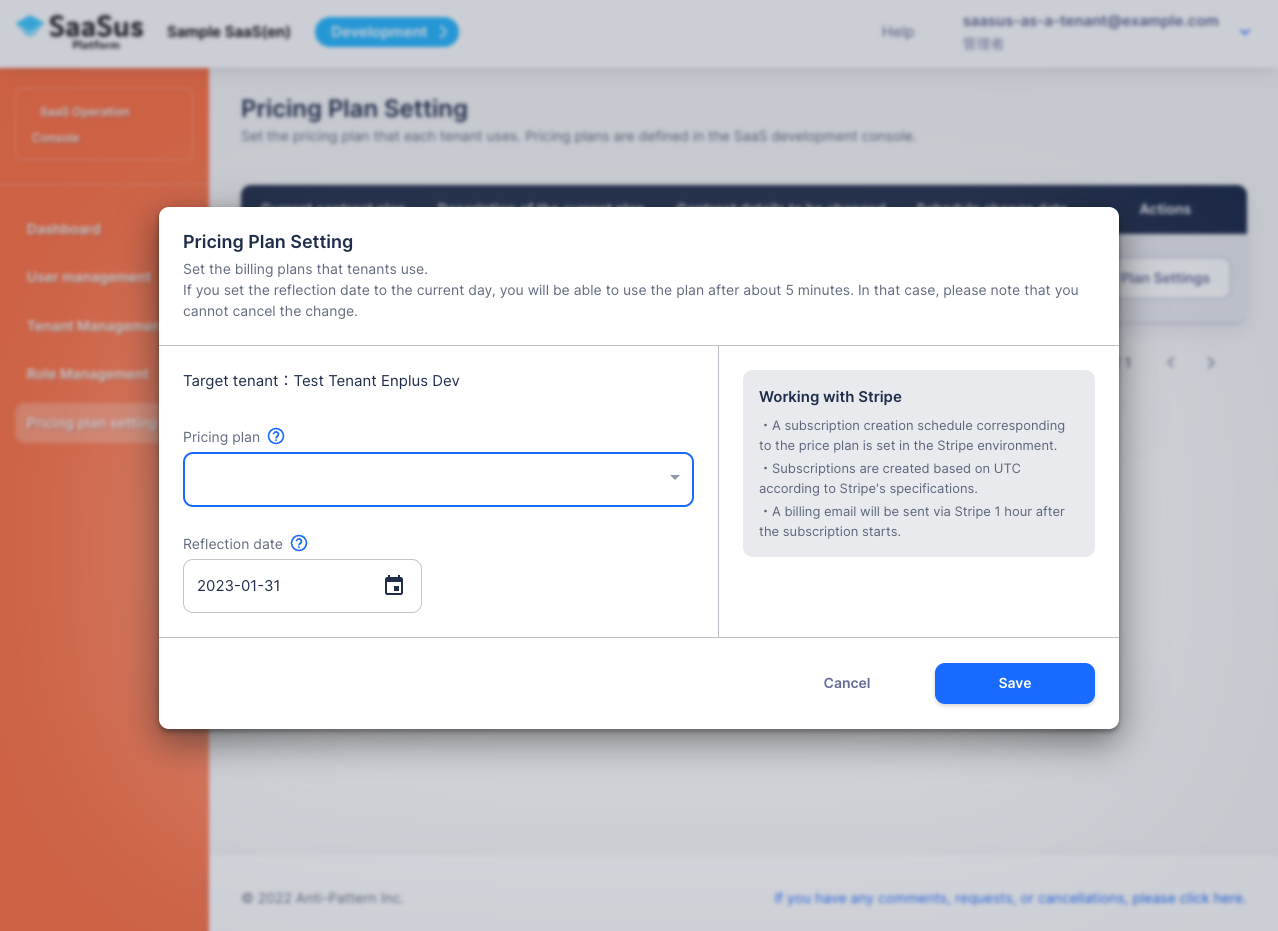
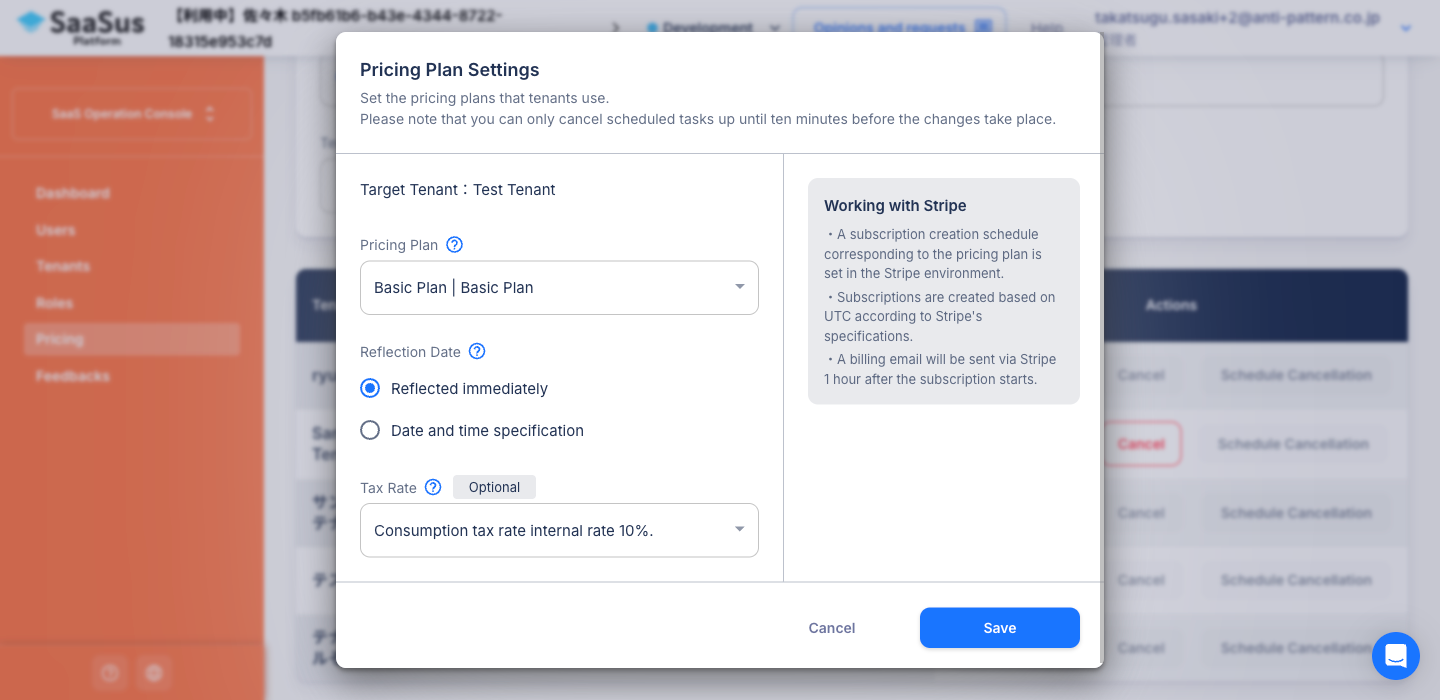
第V部 料金プラン設定 画像差し替えと説明修正

diff --git a/i18n/ja/docusaurus-plugin-content-docs/current/part-5/price-plan/price-plan-setting-001.md b/i18n/ja/docusaurus-plugin-content-docs/current/part-5/price-plan/price-plan-setting-001.md
@@ -6,34 +6,31 @@ hidden: false
 createdAt: "Wed Dec 28 2022 00:56:16 GMT+0000 (Coordinated Universal Time)"
 updatedAt: "Thu Dec 07 2023 01:25:35 GMT+0000 (Coordinated Universal Time)"
 ---
-## 当日に料金プランを設定したい場合
+## 料金プランをすぐ反映させたい場合
 
 1. SaaS 運用コンソールの料金プラン設定に移動します。
 2. 料金プランを設定したいテナントの「プラン設定」をクリックします。
 3. 料金プランをセレクトボックスから選択します。
-4. 反映日には、当日の日付を設定します。
+4. 反映日で「すぐ反映」を選択します。
 5. 税率には税率設定で指定した税率を設定します。
 6. 「保存」をクリックします。
 7. 確認メッセージが表示されるので、内容を確認して「保存」をクリックします。
 
-**※反映日を当日にした場合、操作日時の約5分後から料金プランの設定が反映されます。**  
+**※反映日を「すぐ反映」にした場合、操作日時の約5分後から料金プランの設定が反映されます。**  
 _例,  2022年12月28日午前9時0分に料金プランを設定→2022/12/28 09:05:00に反映_
 
-**税率設定についてはこちらのドキュメントを参照してください。（[税率設定](/docs/saas-development-console/tax-rates)）**
+**税率設定についてはこちらのドキュメントを参照してください。（[税率設定](/docs/part-4/pricing-and-billing/tax-rate-settings)）**
 
 ![](/ja/img/part-5/price-plan/price-plan-setting-001/plan.png)
 
 ***
 
-## 翌日以降の日付で、料金プランが設定されるようにしたい場合
+## 料金プランを日時指定で反映させたい場合
 
 1. SaaS 運用コンソールの料金プラン設定に移動します。
 2. 料金プランを設定したいテナントの「プラン設定」をクリックします。
 3. 料金プランをセレクトボックスから選択します。
-4. 反映日には、翌日以降の日付を設定します。
+4. 反映日で「日時指定」を選択し、希望の日時を指定します。
 5. 税率には税率設定で指定した税率を設定します。
 6. 「保存」をクリックします。
 7. 確認メッセージが表示されるので、内容を確認して「保存」をクリックします。
-
-**※反映日を翌日以降にした場合、指定した日付の午前0時から料金プランの設定が反映されます。**  
-_例,  2023年2月1日の日付を指定→2023/02/01 00:00:00の変更予定を作成_

diff --git a/i18n/ja/docusaurus-plugin-content-docs/version-1.11/part-5/price-plan/price-plan-setting-001.md b/i18n/ja/docusaurus-plugin-content-docs/version-1.11/part-5/price-plan/price-plan-setting-001.md
@@ -6,34 +6,31 @@ hidden: false
 createdAt: "Wed Dec 28 2022 00:56:16 GMT+0000 (Coordinated Universal Time)"
 updatedAt: "Thu Dec 07 2023 01:25:35 GMT+0000 (Coordinated Universal Time)"
 ---
-## 当日に料金プランを設定したい場合
+## 料金プランをすぐ反映させたい場合
 
 1. SaaS 運用コンソールの料金プラン設定に移動します。
 2. 料金プランを設定したいテナントの「プラン設定」をクリックします。
 3. 料金プランをセレクトボックスから選択します。
-4. 反映日には、当日の日付を設定します。
+4. 反映日で「すぐ反映」を選択します。
 5. 税率には税率設定で指定した税率を設定します。
 6. 「保存」をクリックします。
 7. 確認メッセージが表示されるので、内容を確認して「保存」をクリックします。
 
-**※反映日を当日にした場合、操作日時の約5分後から料金プランの設定が反映されます。**  
+**※反映日を「すぐ反映」にした場合、操作日時の約5分後から料金プランの設定が反映されます。**  
 _例,  2022年12月28日午前9時0分に料金プランを設定→2022/12/28 09:05:00に反映_
 
-**税率設定についてはこちらのドキュメントを参照してください。（[税率設定](/docs/saas-development-console/tax-rates)）**
+**税率設定についてはこちらのドキュメントを参照してください。（[税率設定](/docs/part-4/pricing-and-billing/tax-rate-settings)）**
 
 ![](/ja/img/part-5/price-plan/price-plan-setting-001/plan.png)
 
 ***
 
-## 翌日以降の日付で、料金プランが設定されるようにしたい場合
+## 料金プランを日時指定で反映させたい場合
 
 1. SaaS 運用コンソールの料金プラン設定に移動します。
 2. 料金プランを設定したいテナントの「プラン設定」をクリックします。
 3. 料金プランをセレクトボックスから選択します。
-4. 反映日には、翌日以降の日付を設定します。
+4. 反映日で「日時指定」を選択し、希望の日時を指定します。
 5. 税率には税率設定で指定した税率を設定します。
 6. 「保存」をクリックします。
 7. 確認メッセージが表示されるので、内容を確認して「保存」をクリックします。
-
-**※反映日を翌日以降にした場合、指定した日付の午前0時から料金プランの設定が反映されます。**  
-_例,  2023年2月1日の日付を指定→2023/02/01 00:00:00の変更予定を作成_

diff --git a/i18n/ja/docusaurus-plugin-content-docs/current/part-5/price-plan/price-plan-setting-002.md b/i18n/ja/docusaurus-plugin-content-docs/current/part-5/price-plan/price-plan-setting-002.md
@@ -6,16 +6,16 @@ hidden: false
 createdAt: "Wed Dec 28 2022 01:37:39 GMT+0000 (Coordinated Universal Time)"
 updatedAt: "Thu Dec 07 2023 01:25:35 GMT+0000 (Coordinated Universal Time)"
 ---
-## 当日に料金プランを変更したい場合
+## 料金プランの変更をすぐ反映させたい場合
 
 1. SaaS 運用コンソールの料金プラン設定に移動します。
 2. 料金プランを変更したいテナントの「プラン設定」をクリックします。
 3. 料金プランをセレクトボックスから選択します。
-4. 反映日には、当日の日付を設定します。
+4. 反映日で「すぐ反映」を選択します。
 5. 「変更」をクリックします。
 6. 確認メッセージが表示されるので、内容を確認して「変更」をクリックします。
 
-**※反映日を当日にした場合、操作日時の約5分後から料金プランの設定が切り替わります。**  
+**※反映日を「すぐ反映」にした場合、操作日時の約5分後から料金プランの設定が切り替わります。**  
 _例,  2022年12月28日午前9時0分に料金プランの変更設定→2022/12/28 09:05:00に切り替わる_
 
 ![](/ja/img/part-5/price-plan/price-plan-setting-002/plan-setting.png)
@@ -24,14 +24,11 @@ _例,  2022年12月28日午前9時0分に料金プランの変更設定→2022/1
 
 ***
 
-## 翌日以降の日付で、料金プランが変更されるようにしたい場合
+## 料金プランの変更を日時指定で反映させたい場合
 
 1. SaaS 運用コンソールの料金プラン設定に移動します。
 2. 料金プランを変更したいテナントの「プラン設定」をクリックします。
 3. 料金プランをセレクトボックスから選択します。
-4. 反映日には、翌日以降の日付を設定します。
+4. 反映日で「日時指定」を選択し、希望の日時を指定します。
 5. 「変更」をクリックします。
 6. 確認メッセージが表示されるので、内容を確認して「変更」をクリックします。
-
-**※反映日を翌日以降にした場合、指定した日付の午前0時から料金プランの設定が切り替わります。**  
-_例,  2023年2月1日の日付を指定→2023/02/01 00:00:00の変更予定を作成_

diff --git a/i18n/ja/docusaurus-plugin-content-docs/version-1.11/part-5/price-plan/price-plan-setting-002.md b/i18n/ja/docusaurus-plugin-content-docs/version-1.11/part-5/price-plan/price-plan-setting-002.md
@@ -6,16 +6,16 @@ hidden: false
 createdAt: "Wed Dec 28 2022 01:37:39 GMT+0000 (Coordinated Universal Time)"
 updatedAt: "Thu Dec 07 2023 01:25:35 GMT+0000 (Coordinated Universal Time)"
 ---
-## 当日に料金プランを変更したい場合
+## 料金プランの変更をすぐ反映させたい場合
 
 1. SaaS 運用コンソールの料金プラン設定に移動します。
 2. 料金プランを変更したいテナントの「プラン設定」をクリックします。
 3. 料金プランをセレクトボックスから選択します。
-4. 反映日には、当日の日付を設定します。
+4. 反映日で「すぐ反映」を選択します。
 5. 「変更」をクリックします。
 6. 確認メッセージが表示されるので、内容を確認して「変更」をクリックします。
 
-**※反映日を当日にした場合、操作日時の約5分後から料金プランの設定が切り替わります。**  
+**※反映日を「すぐ反映」にした場合、操作日時の約5分後から料金プランの設定が切り替わります。**  
 _例,  2022年12月28日午前9時0分に料金プランの変更設定→2022/12/28 09:05:00に切り替わる_
 
 ![](/ja/img/part-5/price-plan/price-plan-setting-002/plan-setting.png)
@@ -24,14 +24,11 @@ _例,  2022年12月28日午前9時0分に料金プランの変更設定→2022/1
 
 ***
 
-## 翌日以降の日付で、料金プランが変更されるようにしたい場合
+## 料金プランの変更を日時指定で反映させたい場合
 
 1. SaaS 運用コンソールの料金プラン設定に移動します。
 2. 料金プランを変更したいテナントの「プラン設定」をクリックします。
 3. 料金プランをセレクトボックスから選択します。
-4. 反映日には、翌日以降の日付を設定します。
+4. 反映日で「日時指定」を選択し、希望の日時を指定します。
 5. 「変更」をクリックします。
 6. 確認メッセージが表示されるので、内容を確認して「変更」をクリックします。
-
-**※反映日を翌日以降にした場合、指定した日付の午前0時から料金プランの設定が切り替わります。**  
-_例,  2023年2月1日の日付を指定→2023/02/01 00:00:00の変更予定を作成_

diff --git a/i18n/ja/docusaurus-plugin-content-docs/current/part-5/price-plan/price-plan-setting-003.md b/i18n/ja/docusaurus-plugin-content-docs/current/part-5/price-plan/price-plan-setting-003.md
@@ -11,15 +11,14 @@ updatedAt: "Thu Dec 07 2023 01:25:35 GMT+0000 (Coordinated Universal Time)"
 料金プランを解除すると、それに対応するStripeのサブスクリプションがキャンセルされますが  
 その際に返金は発生いたしませんので、ご承知おきください。
 
-## 当日に料金プランを解除したい場合
+## 料金プランの解除を日時指定で反映させたい場合
 
 1. SaaS 運用コンソールの料金プラン設定に移動します。
 2. 料金プランを解除したいテナントの「解除」をクリックします。
-3. 反映日には、当日の日付を設定します。
-4. 「解除」をクリックします。
+3. 反映日で「日時指定」を選択し、希望の日時を指定します。
 5. 確認メッセージが表示されるので、内容を確認して「解除」をクリックします。
 
-**※反映日を当日にした場合、操作日時の約5分後から料金プランが解除されます。**  
+**※反映日を「すぐ反映」にした場合、操作日時の約5分後から料金プランが解除されます。**  
 _例,  2022年12月28日午前9時0分に料金プランの解除設定→2022/12/28 09:05:00に解除_
 
 ![](/ja/img/part-5/price-plan/price-plan-setting-003/plan-setting.png)
@@ -28,13 +27,10 @@ _例,  2022年12月28日午前9時0分に料金プランの解除設定→2022/1
 
 ***
 
-## 翌日以降の日付で、料金プランが解除されるようにしたい場合
+## 料金プランの解除を日時指定で反映させたい場合
 
 1. SaaS 運用コンソールの料金プラン設定に移動します。
 2. 料金プランを解除したいテナントの「解除」をクリックします。
-3. 反映日には、翌日以降の日付を設定します。
+3. 反映日で「日時指定」を選択し、希望の日時を指定します。
 4. 「解除」をクリックします。
 5. 確認メッセージが表示されるので、内容を確認して「解除」をクリックします。
-
-**※反映日を翌日以降にした場合、指定した日付の午前0時に料金プランの設定が解除されます。**  
-_例,  2023年2月1日の日付を指定→2023/02/01 00:00:00の解除予定を作成_

diff --git a/i18n/ja/docusaurus-plugin-content-docs/version-1.11/part-5/price-plan/price-plan-setting-003.md b/i18n/ja/docusaurus-plugin-content-docs/version-1.11/part-5/price-plan/price-plan-setting-003.md
@@ -11,15 +11,14 @@ updatedAt: "Thu Dec 07 2023 01:25:35 GMT+0000 (Coordinated Universal Time)"
 料金プランを解除すると、それに対応するStripeのサブスクリプションがキャンセルされますが  
 その際に返金は発生いたしませんので、ご承知おきください。
 
-## 当日に料金プランを解除したい場合
+## 料金プランの解除を日時指定で反映させたい場合
 
 1. SaaS 運用コンソールの料金プラン設定に移動します。
 2. 料金プランを解除したいテナントの「解除」をクリックします。
-3. 反映日には、当日の日付を設定します。
-4. 「解除」をクリックします。
+3. 反映日で「日時指定」を選択し、希望の日時を指定します。
 5. 確認メッセージが表示されるので、内容を確認して「解除」をクリックします。
 
-**※反映日を当日にした場合、操作日時の約5分後から料金プランが解除されます。**  
+**※反映日を「すぐ反映」にした場合、操作日時の約5分後から料金プランが解除されます。**  
 _例,  2022年12月28日午前9時0分に料金プランの解除設定→2022/12/28 09:05:00に解除_
 
 ![](/ja/img/part-5/price-plan/price-plan-setting-003/plan-setting.png)
@@ -28,13 +27,10 @@ _例,  2022年12月28日午前9時0分に料金プランの解除設定→2022/1
 
 ***
 
-## 翌日以降の日付で、料金プランが解除されるようにしたい場合
+## 料金プランの解除を日時指定で反映させたい場合
 
 1. SaaS 運用コンソールの料金プラン設定に移動します。
 2. 料金プランを解除したいテナントの「解除」をクリックします。
-3. 反映日には、翌日以降の日付を設定します。
+3. 反映日で「日時指定」を選択し、希望の日時を指定します。
 4. 「解除」をクリックします。
 5. 確認メッセージが表示されるので、内容を確認して「解除」をクリックします。
-
-**※反映日を翌日以降にした場合、指定した日付の午前0時に料金プランの設定が解除されます。**  
-_例,  2023年2月1日の日付を指定→2023/02/01 00:00:00の解除予定を作成_

diff --git a/docs/part-5/price-plan/price-plan-setting-001.md b/docs/part-5/price-plan/price-plan-setting-001.md
@@ -11,14 +11,14 @@ updatedAt: "Thu Dec 07 2023 01:25:35 GMT+0000 (Coordinated Universal Time)"
 1. Go to Pricing Plan Settings in the SaaS Operations Console.
 2. Click "Plan Settings" for the tenant for which you want to set a price plan.
 3. Select a pricing plan from the select box.
-4. Set the current date for the reflection date.
+4. For Reflection Date, select "Reflected immediately".
 5. Click Save.
 6. A confirmation message will be displayed. Check the contents and click "Save".
 
-**\*If you set the reflection date to the current day, the billing plan settings will be reflected about 5 minutes after the operation date and time. **  
+**\*When "Reflected immediately" is selected, the pricing plan will take effect about 5 minutes after the operation.**  
 _For example, a billing plan is set at 9:00 am on December 28, 2022 → Reflected at 09:05:00 on December 28, 2022_
 
-**For information on tax rate settings, please refer to this document: ([Tax Rate Settings](/docs/saas-development-console/tax-rates))**
+**For information on tax rate settings, please refer to this document: ([Tax Rate Settings](/docs/part-4/pricing-and-billing/tax-rate-settings))**
 
 ![plan](/img/part-5/price-plan/price-plan-setting-001/plan.png)
 *Dialog that appears when you perform the operation in step 2 (operate here from step 3 onwards)*
@@ -31,9 +31,6 @@ _For example, a billing plan is set at 9:00 am on December 28, 2022 → Reflecte
 1. Go to Pricing Plan Settings in the SaaS Operations Console.
 2. Click "Plan Settings" for the tenant for which you want to set a price plan.
 3. Select a rate plan from the select box.
-4. For the effective date, set the date after the next day.
+4. For Reflection Date, select "Date and time specification", then specify the desired date and time.
 5. Click Save.
 6. A confirmation message will be displayed. Check the contents and click "Save".
-
-**\*If you set the reflection date to the next day or later, the price plan settings will be reflected from 0:00 on the specified date. **  
-_Example, Specify the date of February 1, 2023 → Create a change schedule for 2023/02/01 00:00:00_

diff --git a/versioned_docs/version-1.11/part-5/price-plan/price-plan-setting-001.md b/versioned_docs/version-1.11/part-5/price-plan/price-plan-setting-001.md
@@ -11,14 +11,14 @@ updatedAt: "Thu Dec 07 2023 01:25:35 GMT+0000 (Coordinated Universal Time)"
 1. Go to Pricing Plan Settings in the SaaS Operations Console.
 2. Click "Plan Settings" for the tenant for which you want to set a price plan.
 3. Select a pricing plan from the select box.
-4. Set the current date for the reflection date.
+4. For Reflection Date, select "Reflected immediately".
 5. Click Save.
 6. A confirmation message will be displayed. Check the contents and click "Save".
 
-**\*If you set the reflection date to the current day, the billing plan settings will be reflected about 5 minutes after the operation date and time. **  
+**\*When "Reflected immediately" is selected, the pricing plan will take effect about 5 minutes after the operation.**  
 _For example, a billing plan is set at 9:00 am on December 28, 2022 → Reflected at 09:05:00 on December 28, 2022_
 
-**For information on tax rate settings, please refer to this document: ([Tax Rate Settings](/docs/saas-development-console/tax-rates))**
+**For information on tax rate settings, please refer to this document: ([Tax Rate Settings](/docs/part-4/pricing-and-billing/tax-rate-settings))**
 
 ![plan](/img/part-5/price-plan/price-plan-setting-001/plan.png)
 *Dialog that appears when you perform the operation in step 2 (operate here from step 3 onwards)*
@@ -31,9 +31,6 @@ _For example, a billing plan is set at 9:00 am on December 28, 2022 → Reflecte
 1. Go to Pricing Plan Settings in the SaaS Operations Console.
 2. Click "Plan Settings" for the tenant for which you want to set a price plan.
 3. Select a rate plan from the select box.
-4. For the effective date, set the date after the next day.
+4. For Reflection Date, select "Date and time specification", then specify the desired date and time.
 5. Click Save.
 6. A confirmation message will be displayed. Check the contents and click "Save".
-
-**\*If you set the reflection date to the next day or later, the price plan settings will be reflected from 0:00 on the specified date. **  
-_Example, Specify the date of February 1, 2023 → Create a change schedule for 2023/02/01 00:00:00_

diff --git a/docs/part-5/price-plan/price-plan-setting-002.md b/docs/part-5/price-plan/price-plan-setting-002.md
@@ -11,11 +11,11 @@ updatedAt: "Thu Dec 07 2023 01:25:35 GMT+0000 (Coordinated Universal Time)"
 1. Go to Pricing Plan Settings in the SaaS Operations Console.
 2. Click "Plan Settings" for the tenant whose price plan you want to change.
 3. Select a pricing plan from the select box.
-4. Set the current date for the reflection date.
+4. For Reflection Date, select "Reflected immediately".
 5. Click Change.
 6. A confirmation message will be displayed. Check the contents and click "Change".
 
-**\*If you set the reflection date to the current day, the pricing plan settings will switch approximately 5 minutes after the operation date and time. **  
+**\*When "Reflected immediately" is selected, the pricing plan will take effect about 5 minutes after the operation.**  
 _Example, Change setting of pricing plan at 9:00 am on December 28, 2022 → Switch to 09:05:00 on December 28, 2022_
 
 ![plan-setting](/img/part-5/price-plan/price-plan-setting-002/plan-setting.png)
@@ -29,9 +29,6 @@ _Example, Change setting of pricing plan at 9:00 am on December 28, 2022 → Swi
 1. Go to Pricing Plan Settings in the SaaS Operations Console.
 2. Click "Plan Settings" for the tenant whose price plan you want to change.
 3. Select a pricing plan from the select box.
-4. For the effective date, set the date after the next day.
+4. For Reflection Date, select "Date and time specification", then specify the desired date and time.
 5. Click Change.
 6. A confirmation message will be displayed. Check the contents and click "Change".
-
-**\*If you set the reflection date to the next day or later, the pricing plan settings will switch from 0:00 on the specified date. **  
-_Example, Specify the date of February 1, 2023 → Create a change schedule for 2023/02/01 00:00:00_

diff --git a/versioned_docs/version-1.11/part-5/price-plan/price-plan-setting-002.md b/versioned_docs/version-1.11/part-5/price-plan/price-plan-setting-002.md
@@ -11,11 +11,11 @@ updatedAt: "Thu Dec 07 2023 01:25:35 GMT+0000 (Coordinated Universal Time)"
 1. Go to Pricing Plan Settings in the SaaS Operations Console.
 2. Click "Plan Settings" for the tenant whose price plan you want to change.
 3. Select a pricing plan from the select box.
-4. Set the current date for the reflection date.
+4. For Reflection Date, select "Reflected immediately".
 5. Click Change.
 6. A confirmation message will be displayed. Check the contents and click "Change".
 
-**\*If you set the reflection date to the current day, the pricing plan settings will switch approximately 5 minutes after the operation date and time. **  
+**\*When "Reflected immediately" is selected, the pricing plan will take effect about 5 minutes after the operation.**  
 _Example, Change setting of pricing plan at 9:00 am on December 28, 2022 → Switch to 09:05:00 on December 28, 2022_
 
 ![plan-setting](/img/part-5/price-plan/price-plan-setting-002/plan-setting.png)
@@ -29,9 +29,6 @@ _Example, Change setting of pricing plan at 9:00 am on December 28, 2022 → Swi
 1. Go to Pricing Plan Settings in the SaaS Operations Console.
 2. Click "Plan Settings" for the tenant whose price plan you want to change.
 3. Select a pricing plan from the select box.
-4. For the effective date, set the date after the next day.
+4. For Reflection Date, select "Date and time specification", then specify the desired date and time.
 5. Click Change.
 6. A confirmation message will be displayed. Check the contents and click "Change".
-
-**\*If you set the reflection date to the next day or later, the pricing plan settings will switch from 0:00 on the specified date. **  
-_Example, Specify the date of February 1, 2023 → Create a change schedule for 2023/02/01 00:00:00_
